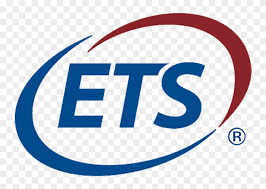
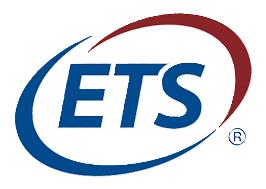
ロゴ追加

diff --git a/docs/index.html b/docs/index.html
@@ -818,13 +818,11 @@
           </div>
         </div>
         <div class="certifications">
-          <h3>資格</h3>
+          <h3>Qualifications</h3>
           <div class="cert-categories">
             <div class="cert-category-group">
               <div class="cert-item">
-                <div class="cert-icon">
-                  <i class="fas fa-language"></i>
-                </div>
+                <img src="../icons/qualifications/ETS.png" alt="ETS" class="cert-company-icon">
                 <div class="cert-info">
                   <div class="cert-name">TOEIC 780点</div>
                   <div class="cert-date">2022年1月</div>
@@ -834,9 +832,7 @@
             
             <div class="cert-category-group">
               <div class="cert-item">
-                <div class="cert-icon">
-                  <i class="fas fa-cube"></i>
-                </div>
+                <img src="../icons/qualifications/CGA.png" alt="CG-ARTS" class="cert-company-icon">
                 <div class="cert-info">
                   <div class="cert-name">CGエンジニア検定<br>エキスパート</div>
                   <div class="cert-date">2024年8月</div>
@@ -846,14 +842,14 @@
             
             <div class="cert-category-group">
               <div class="cert-item">
-                <img src="../icons/org/Salesforce.png" alt="Salesforce" class="cert-company-icon">
+                <img src="../icons/qualifications/salesforce.svg" alt="Salesforce" class="cert-company-icon">
                 <div class="cert-info">
                   <div class="cert-name">認定アドミニストレーター</div>
                   <div class="cert-date">2025年1月</div>
                 </div>
               </div>
               <div class="cert-item">
-                <img src="../icons/org/Salesforce.png" alt="Salesforce" class="cert-company-icon">
+                <img src="../icons/qualifications/salesforce.svg" alt="Salesforce" class="cert-company-icon">
                 <div class="cert-info">
                   <div class="cert-name">認定AIアソシエイト</div>
                   <div class="cert-date">2025年1月</div>
